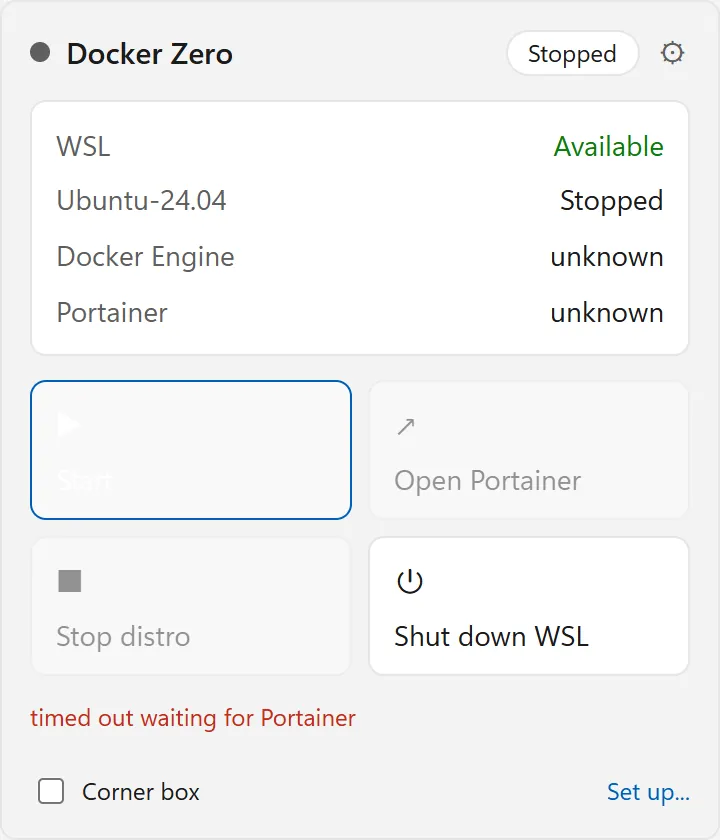
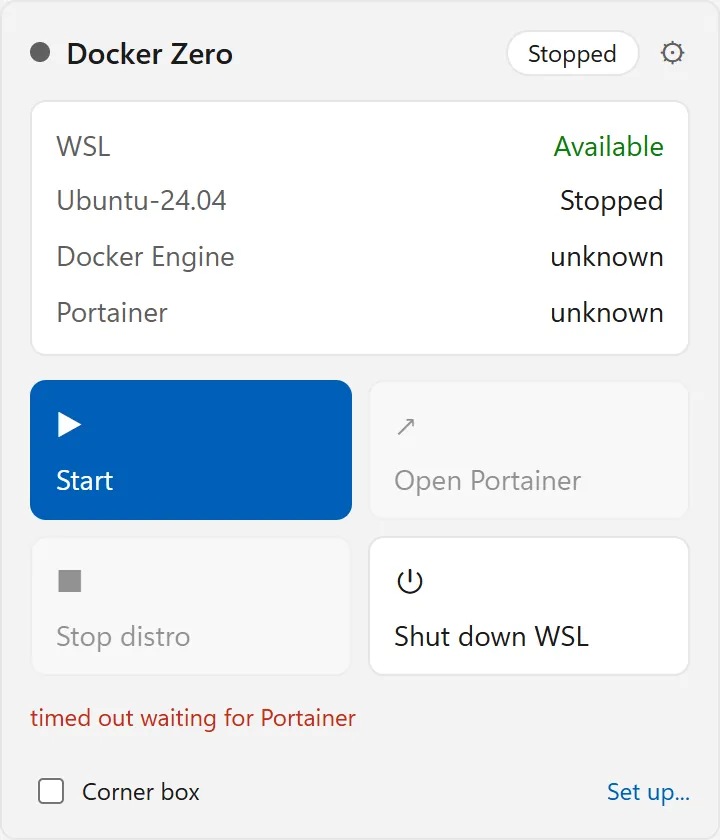
fix(docker-zero): re-shoot the gallery states that had caught a hover style
Why:
- Two shots were taken with the pointer still resting on the Start tile after the click, so they showed the unreadable hover style instead of the state itself; the reworked renderer moves the pointer off the page before each shot.

Changes:
- design/ui-gallery/shots: popup-start-error and settings-problems re-rendered in light and dark; the other 19 clicked states came out byte-identical
- design/ui-gallery/gallery-data.js: the new image sizes

Risk and verification:
- shoot.py render --only on the 21 states with actions; the hover itself stays documented in popup-start-hover

Changed region(s): [[0.0306, 0.4333, 0.4889, 0.619]]

diff --git a/design/ui-gallery/gallery-data.js b/design/ui-gallery/gallery-data.js
@@ -6,7 +6,7 @@ window.GALLERY = {
   "uvx --from playwright --with pillow python -I <frontdoor-ui-gallery>/scripts/shoot.py render design/ui-gallery/gallery.json"
  ],
  "generated": "2026-10-22",
- "commit": "5c6d486",
+ "commit": "9c4baf1",
  "storageKey": "docker-zero-ui-gallery",
  "views": {
   "popup": {
@@ -303,7 +303,7 @@ window.GALLERY = {
    "light": {
     "w": 360,
     "h": 420,
-    "kb": 20
+    "kb": 21
    },
    "dark": {
     "w": 360,
